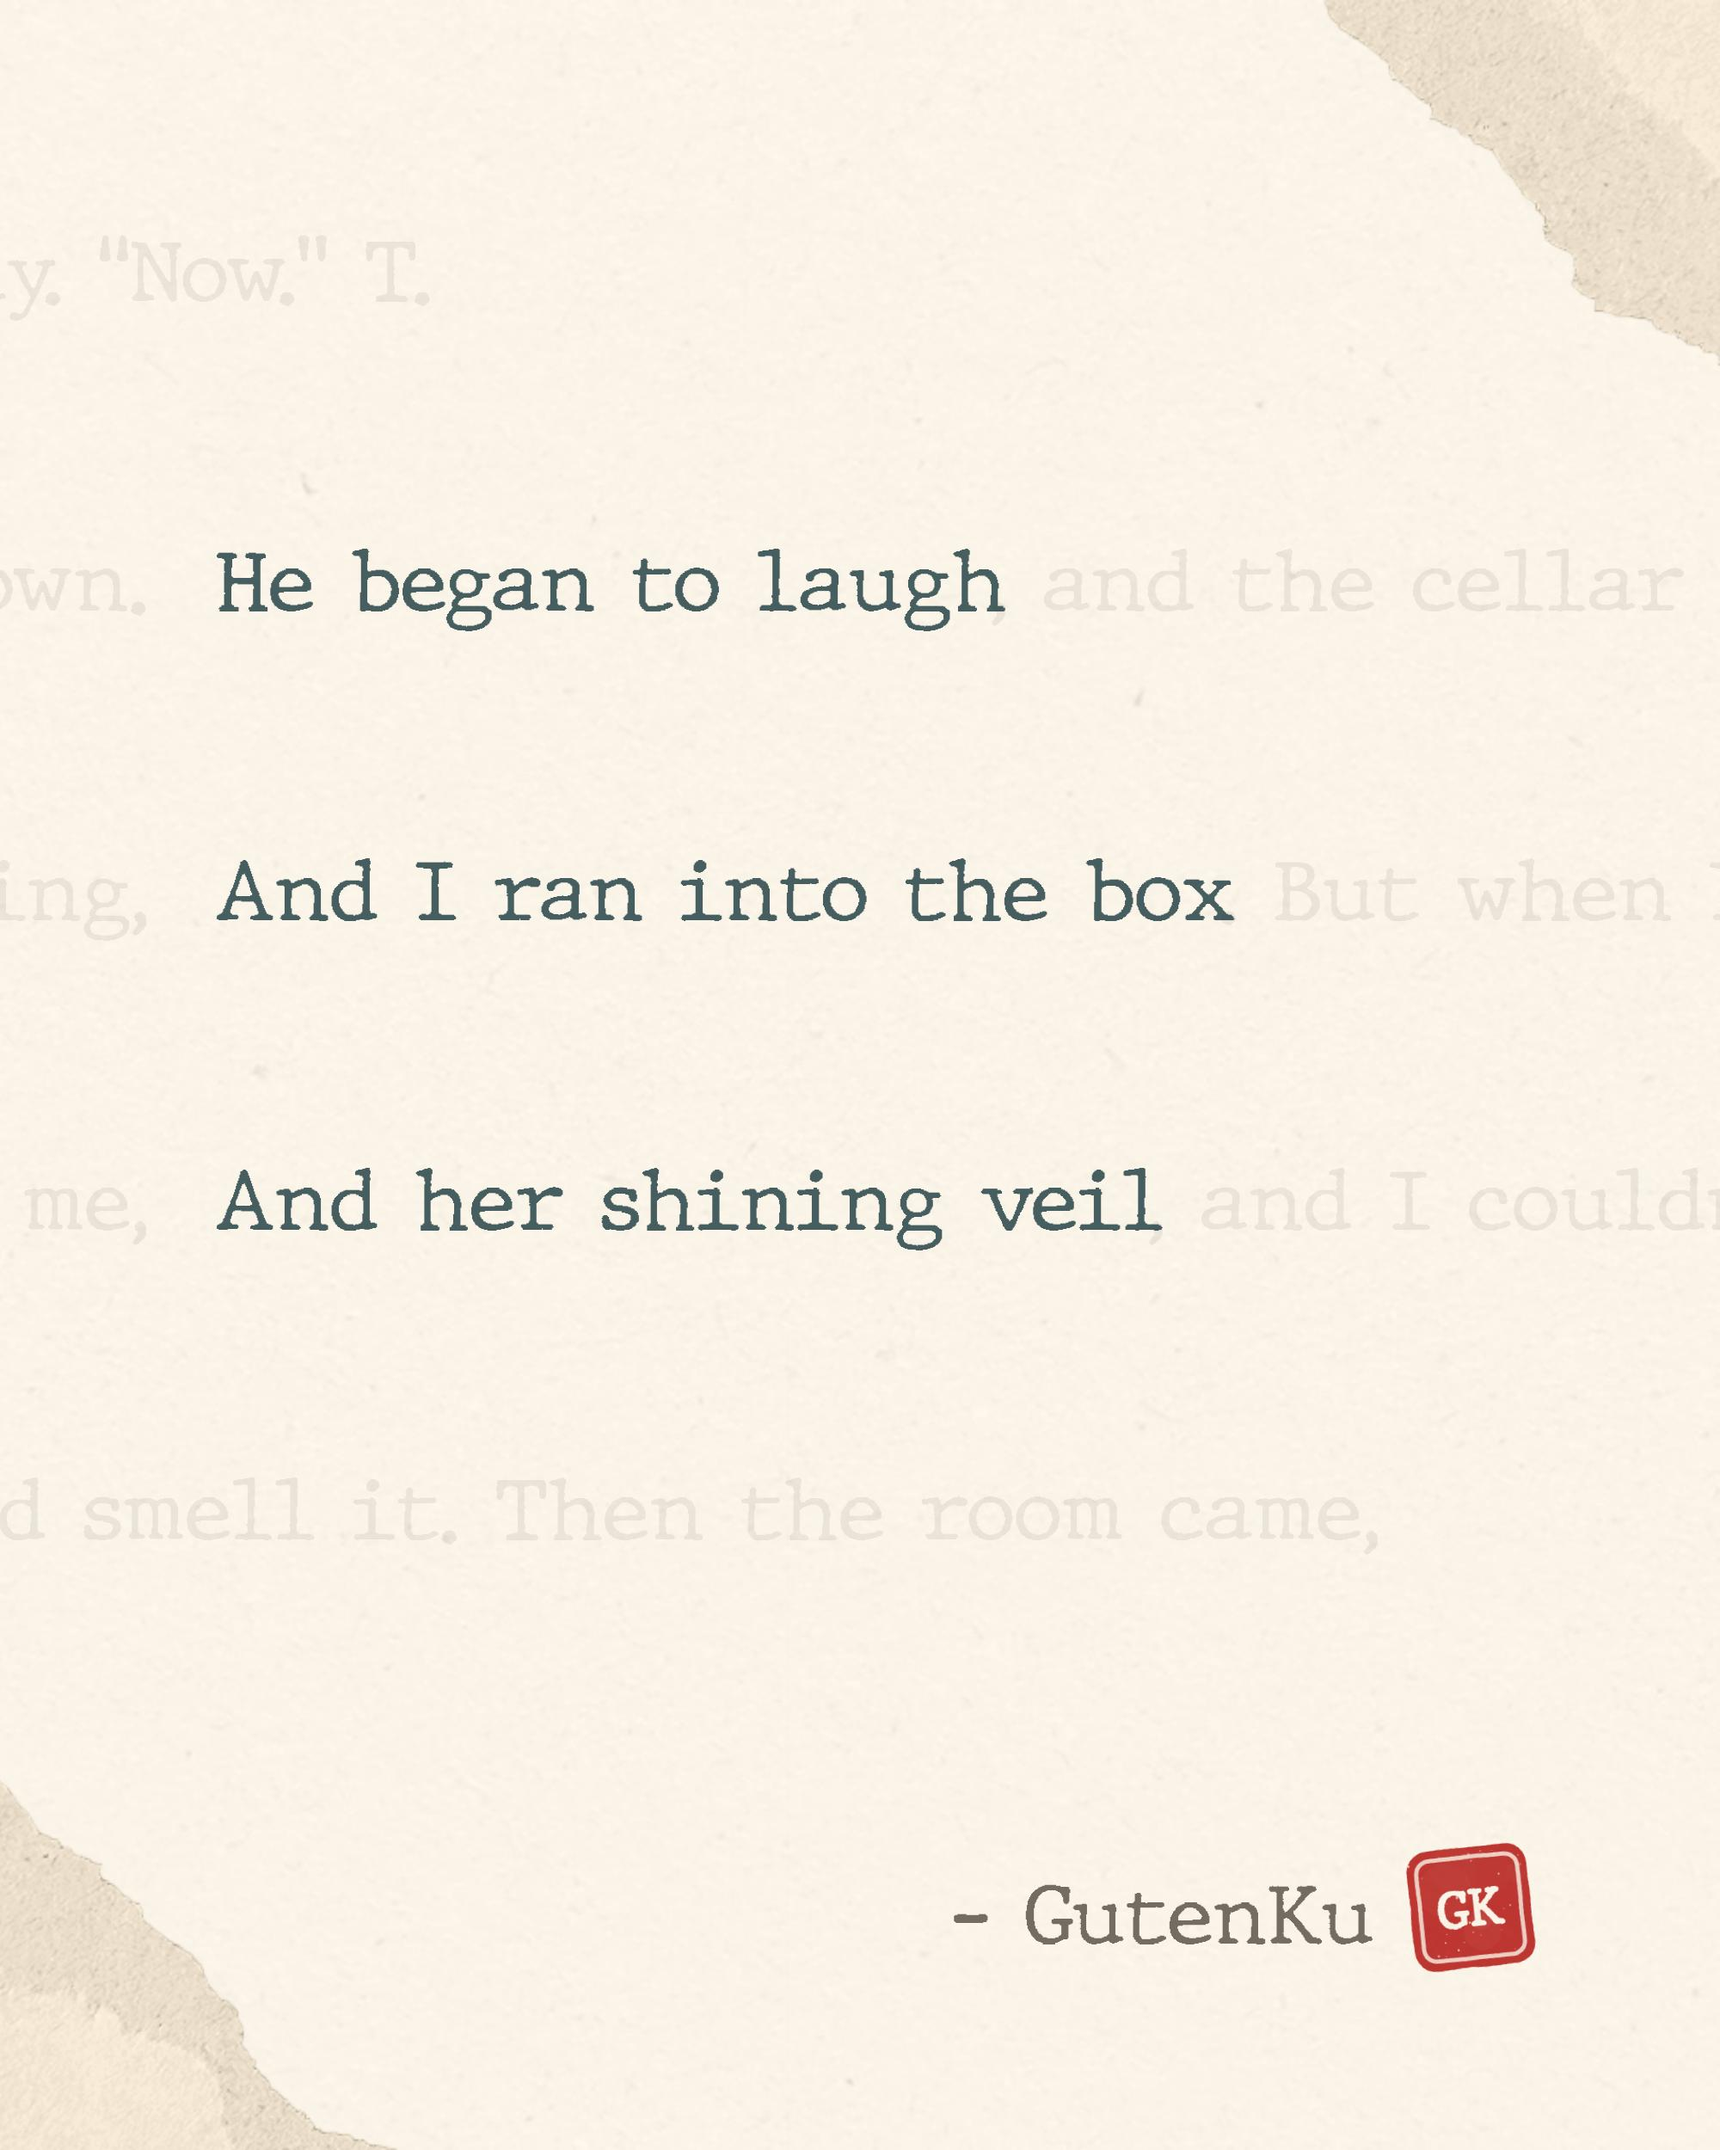
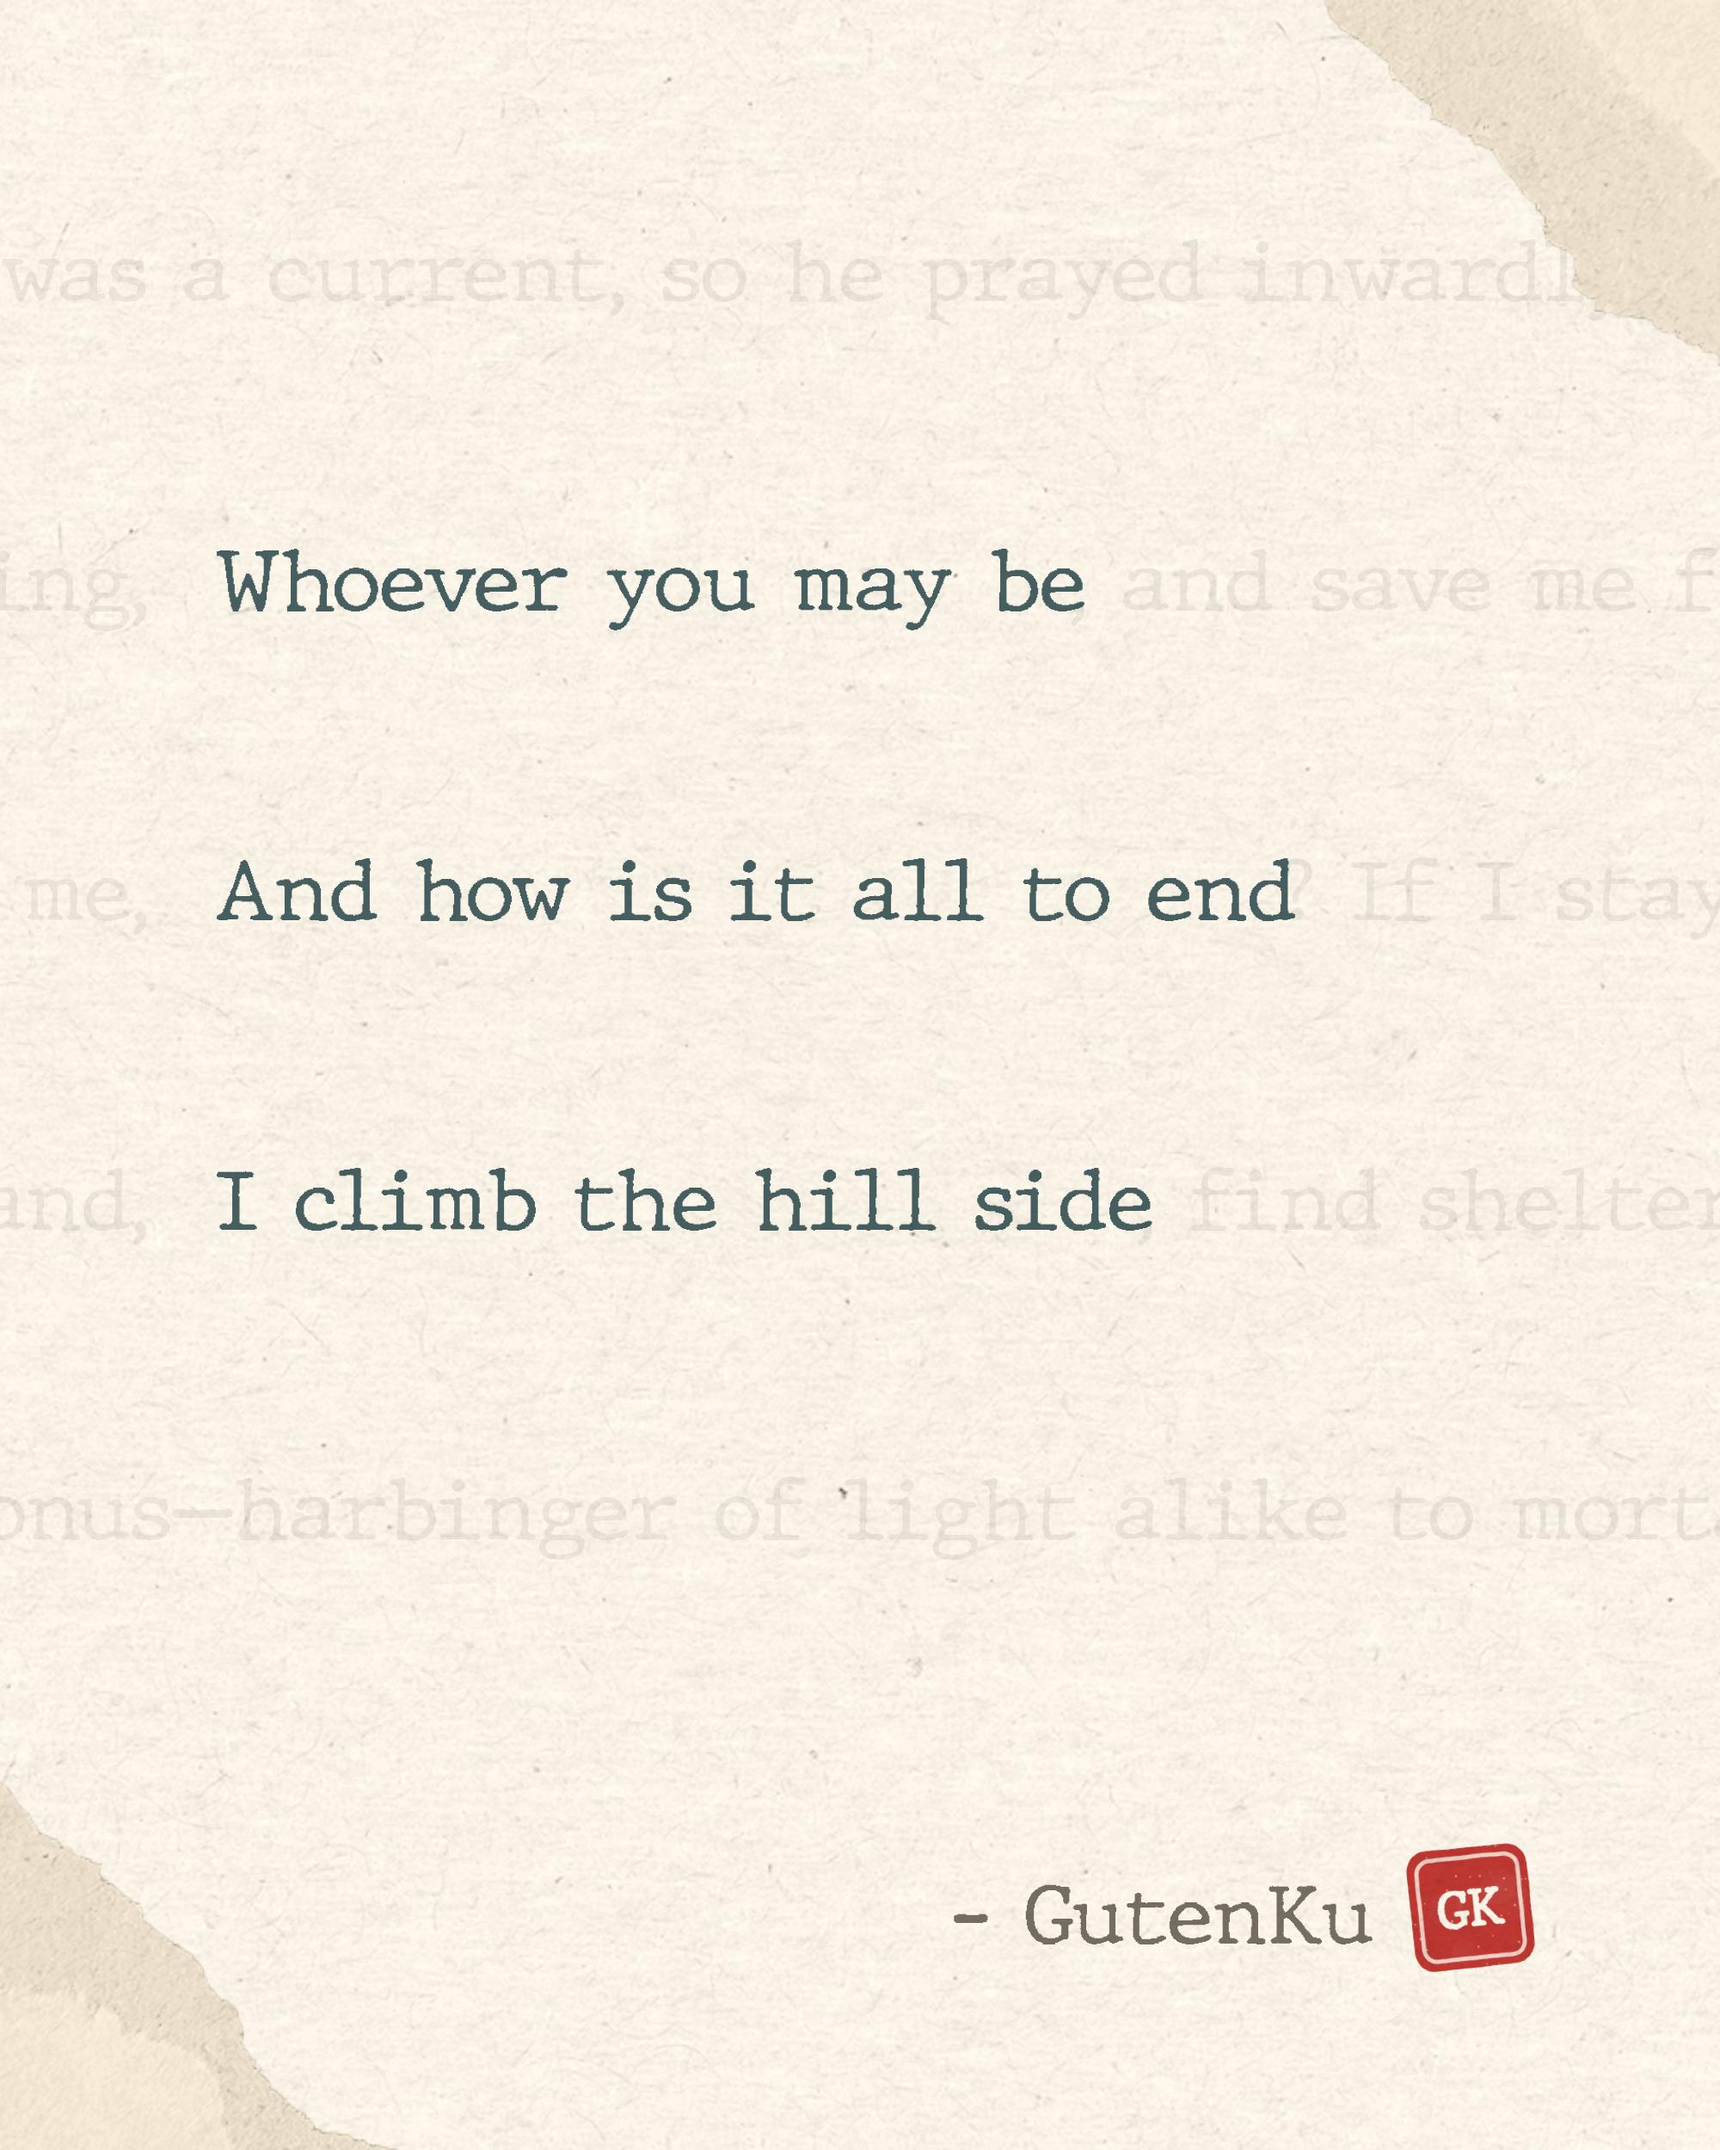
docs(readme): updated daily haiku card

Changed region(s): [[0.124, 0.5304, 0.682, 0.5928], [0.124, 0.2496, 0.62, 0.312], [0.248, 0.4056, 0.775, 0.4368]]

diff --git a/README.md b/README.md
@@ -25,13 +25,13 @@
 <table>
 <tr>
 <td width="300" valign="top">
-<img src="/assets/img/daily_haiku_card.jpg?t=1793095230" width="280" alt="Daily Haiku Card">
+<img src="/assets/img/daily_haiku_card.jpg?t=1793181627" width="280" alt="Daily Haiku Card">
 </td>
 <td valign="top">
 
 > _"This haiku evokes a quiet, reflective moment filled with memory and tenderness. The phrase "bright" suggests light, warmth, or hope, while "lies in a bed to his left" creates a still, intimate scene that may hint at illness, rest, or even death. The final line, "winsome smile of yore," brings in nostalgia, recalling a charming smile from the past. Together, the poem feels gentle yet bittersweet, as if the speaker is looking at someone dear and remembering a happier time. Its emotional power comes from the contrast between present stillness and the lingering beauty of memory."_
 
-— **BotenKu** 📅 _Oct 27, 2026_
+— **BotenKu** 📅 _Oct 28, 2026_
 
 </td>
 </tr>
